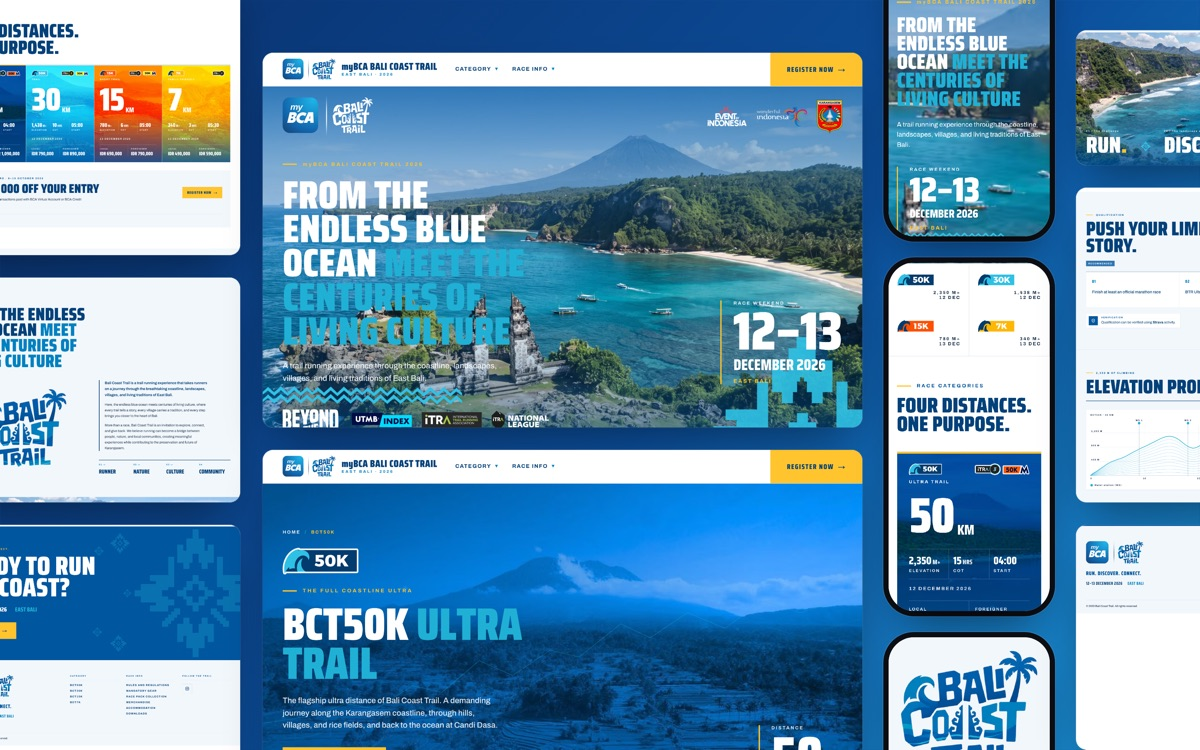
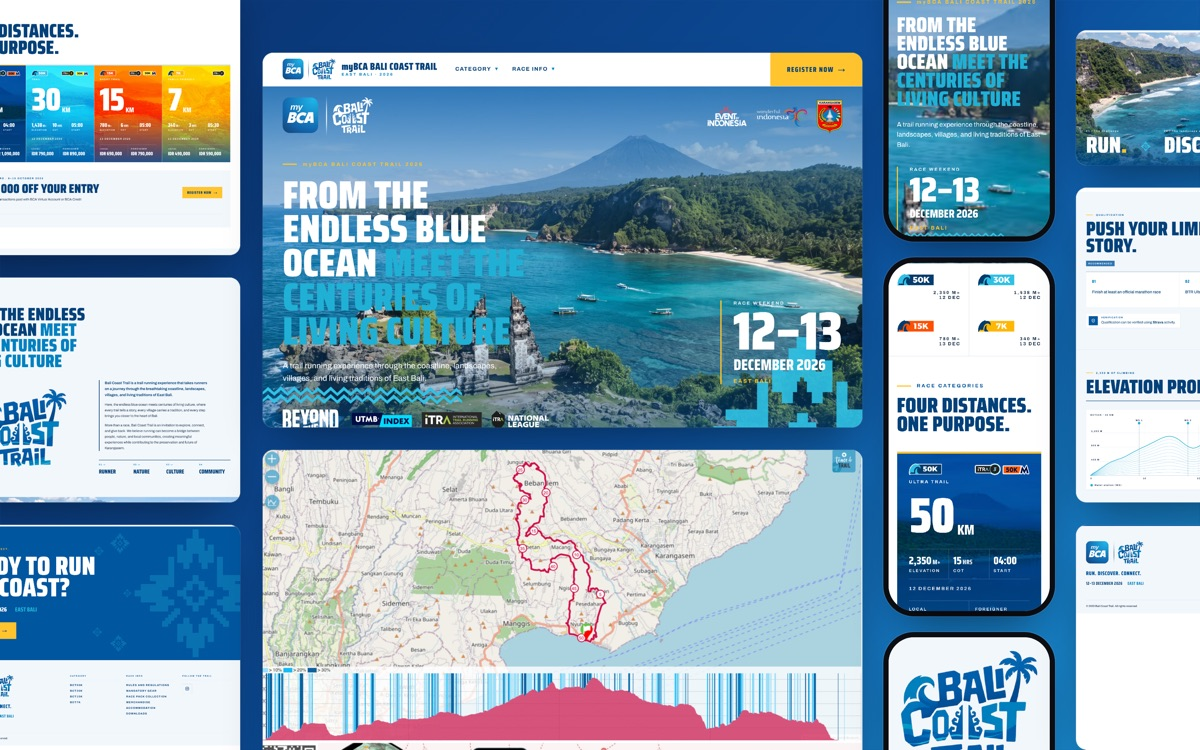
feat(work): show the BCT50K course map in the Bali Coast Trail showcase
Replace the center bottom tile with the course map and elevation chart
from the BCT50K page. The map is a Trace de Trail iframe that stays
blank in a full-page capture, so add tools/capture-element.js to
capture one section at a tall viewport, plus a --settle option in
capture.js, and document both in the guide.

Changed region(s): [[0.2158, 0.5827, 0.74, 1.0]]

diff --git a/docs/preference/tools/capture-element.js b/docs/preference/tools/capture-element.js
@@ -1,0 +1,47 @@
+// Captures one element (a section, an embed) at viewport size, for content that
+// renders blank in a full-page capture: maps, iframes, canvas, video.
+//
+// usage: node capture-element.js <url> <selector> <out.png> [--width 1440] [--height 900] [--mobile] [--settle 15000]
+// e.g.   node capture-element.js https://balicoasttrail.com/categories/bct50k "section:has(iframe)" captures/bct-50k-map.png
+//
+// The output is a normal capture: use it in a layout with "srcW" set to the
+// element's css width (printed below), and "y" measured from the element's top.
+const { chromium } = require("playwright-core");
+
+function arg(name, fallback) {
+  const i = process.argv.indexOf(name);
+  return i === -1 ? fallback : process.argv[i + 1];
+}
+
+(async () => {
+  const [url, selector, out] = process.argv.slice(2);
+  const mobile = process.argv.includes("--mobile");
+  const width = +arg("--width", mobile ? 390 : 1440);
+  const height = +arg("--height", mobile ? 844 : 900);
+  const settle = +arg("--settle", 15000);
+
+  const browser = await chromium.launch({ channel: "chrome" });
+  const page = await browser.newPage({
+    viewport: { width, height },
+    deviceScaleFactor: 2,
+    isMobile: mobile,
+    hasTouch: mobile,
+  });
+  await page.goto(url, { waitUntil: "load", timeout: 60000 });
+  const el = page.locator(selector).first();
+  await el.scrollIntoViewIfNeeded();
+  await page.waitForTimeout(settle);
+  // Sticky headers and floating buttons would be painted over the element.
+  await el.evaluate((target) => {
+    for (const node of document.querySelectorAll("body *")) {
+      const pos = getComputedStyle(node).position;
+      if ((pos === "fixed" || pos === "sticky") && !node.contains(target) && !target.contains(node)) {
+        node.style.visibility = "hidden";
+      }
+    }
+  });
+  const box = await el.boundingBox();
+  await el.screenshot({ path: out });
+  console.log(`${out}  element ${Math.round(box.width)}x${Math.round(box.height)} css px`);
+  await browser.close();
+})();

diff --git a/docs/preference/tools/capture.js b/docs/preference/tools/capture.js
@@ -1,10 +1,11 @@
 // Full-page capture of a live page for showcase collages.
 //
-// usage: node capture.js <url> <out.png> [--width 1440] [--height 900] [--mobile] [--wait 6000]
+// usage: node capture.js <url> <out.png> [--width 1440] [--height 900] [--mobile] [--wait 6000] [--settle 2500]
 //
 // Captures at 2x device scale. Scrolls the page first so scroll-reveal sections
 // and lazy images render. Check every output: skeleton loaders, cookie banners,
 // rate-limit pages and blank embeds (maps, iframes) must not end up in a collage.
+// Embeds load late: if a map or iframe is blank, rerun with --settle 15000.
 const { chromium } = require("playwright-core");
 
 function arg(name, fallback) {
@@ -18,6 +19,7 @@ function arg(name, fallback) {
   const width = +arg("--width", mobile ? 390 : 1440);
   const height = +arg("--height", mobile ? 844 : 900);
   const wait = +arg("--wait", 6000);
+  const settle = +arg("--settle", 2500);
 
   const browser = await chromium.launch({ channel: "chrome" });
   const page = await browser.newPage({
@@ -33,10 +35,10 @@ function arg(name, fallback) {
   const total = await page.evaluate(() => document.documentElement.scrollHeight);
   for (let y = 0; y < total; y += 400) {
     await page.evaluate((y) => window.scrollTo(0, y), y);
-    await page.waitForTimeout(150);
+    await page.waitForTimeout(settle > 2500 ? 600 : 150);
   }
   await page.evaluate(() => window.scrollTo(0, 0));
-  await page.waitForTimeout(2500);
+  await page.waitForTimeout(settle);
 
   await page.screenshot({ path: out, fullPage: true });
   console.log(`${out}  ${width}px wide, ${total}px tall (css px)`);

diff --git a/content/site.ts b/content/site.ts
@@ -152,7 +152,7 @@ export const featuredProjects: FeaturedProject[] = [
     tags: ["Next.js", "Event site"],
     tagsLabel: "Stack",
     link: { label: "balicoasttrail.com", href: "https://balicoasttrail.com" },
-    image: "/images/bali-coast-trail-showcase.jpg",
+    image: "/images/bali-coast-trail-showcase-v2.jpg",
     placeholder: {
       title: "Bali Coast Trail — hero section",
       subtitle: "Replace with a real crop of balicoasttrail.com",

diff --git a/docs/preference/README.md b/docs/preference/README.md
@@ -24,6 +24,7 @@ What they share: the frame is full. Screens fill almost the whole canvas, the ba
 | --- | --- | --- |
 | `README.md` | This guide | yes |
 | `tools/capture.js` | Full-page capture of a live URL (desktop or mobile) | yes |
+| `tools/capture-element.js` | Captures one section or embed (maps, iframes, canvas) that renders blank in a full-page capture | yes |
 | `tools/render.js` | Renders a layout JSON into a 16:10 collage | yes |
 | `tools/fetch-samples.sh` | Downloads the Dribbble reference shots into `samples/` | yes |
 | `tools/check-card.js` | Screenshots one Work card in light, dark, and mobile to check the result on the real page | yes |
@@ -98,7 +99,7 @@ export NODE_PATH=/tmp/showcase-pw/node_modules
    node docs/preference/tools/capture.js https://balicoasttrail.com docs/preference/captures/bct-home-m.png --mobile
    ```
 
-   Open every capture before using it. Skeleton loaders, cookie banners, rate-limit pages, and blank maps or iframes must not reach the collage. Production sites can rate limit: capture each URL once, and wait a few minutes before retrying.
+   Open every capture before using it. Skeleton loaders, cookie banners, rate-limit pages, and blank maps or iframes must not reach the collage. Embeds such as maps often stay blank in a full-page capture because the page is photographed in slices. Capture them on their own with `capture-element.js` and a viewport tall enough for the whole embed, for example `node docs/preference/tools/capture-element.js https://balicoasttrail.com/categories/bct50k "section:has(iframe)" docs/preference/captures/bct-50k-map.png --height 1300`. Production sites can rate limit: capture each URL once, and wait a few minutes before retrying.
 
 2. **Find crop offsets.** Downscale a capture to see where sections start (`sips --resampleWidth 500 in.png --out thumb.png`). Convert thumbnail pixels to css px with `cssY = thumbY × (captureCssWidth / 500)`.
 
@@ -147,7 +148,7 @@ export NODE_PATH=/tmp/showcase-pw/node_modules
 | Project | `reversed` | Pattern | Layout and image |
 | --- | --- | --- | --- |
 | Karna | false | Dashboard focus (web admin) with phones from the staff app, not made yet | none yet |
-| Bali Coast Trail | true | Wall | `layouts/bali-coast-trail.json`, `bali-coast-trail-showcase.jpg` |
+| Bali Coast Trail | true | Wall | `layouts/bali-coast-trail.json`, `bali-coast-trail-showcase-v2.jpg` (center bottom tile is the BCT50K course map and elevation chart) |
 | Bali Trail Running | false | Bento (v2 hero + chips was rejected as too empty) | `layouts/bali-trail-running.json`, `bali-trail-running-showcase-v3.jpg` |
 | Bali Bird Park | true | Tilted grid or a phone-only bento like `gasfuel-mobile` (mobile app), not made yet | none yet |
 
